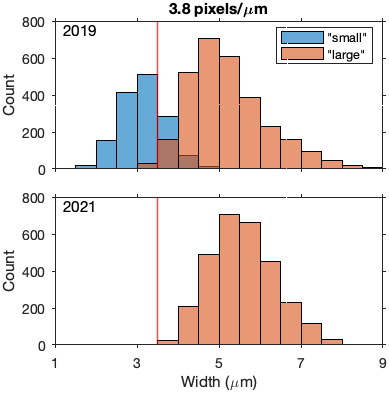
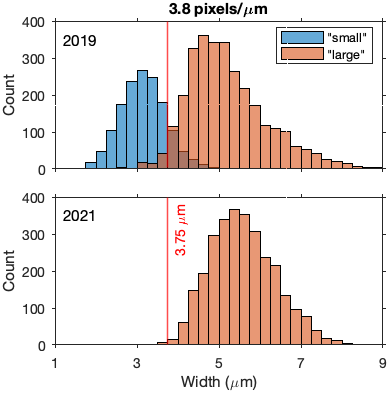
width 3.8

diff --git a/NOAA/Shimada/plot_PN_width_histogram_manual.m b/NOAA/Shimada/plot_PN_width_histogram_manual.m
@@ -2,16 +2,16 @@
 % complete dataset
 clear;
 
+micron_factor=3.8;
 filepath = '~/Documents/MATLAB/bloom-baby-bloom/';
 outpath = [filepath 'NOAA/Shimada/Figs/'];
 class_indices_path=[filepath 'IFCB-Tools/convert_index_class/class_indices.mat'];   
 addpath(genpath('~/Documents/MATLAB/ifcb-analysis/'));
 addpath(genpath(filepath));
 
-load([filepath 'IFCB-Data/Shimada/manual/summary_PN_width_manual'],...
+load([filepath 'IFCB-Data/Shimada/manual/summary_PN_width_manual_micron-factor' num2str(micron_factor) ''],...
     'ml_analyzed','mdate','filelist','PN*','micron_factor');
 
-micron_factor=3.8;
 dt=datetime(mdate,'ConvertFrom','datenum');
 
 [lat,lon,ia,filelist] = match_IFCBdata_w_Shimada_lat_lon(filepath,filelist);
@@ -36,24 +36,23 @@ subplot = @(m,n,p) subtightplot (m, n, p, [0.07 0.07], [0.12 0.07], [0.14 0.04])
 %where opt = {gap, width_h, width_w} describes the inner and outer spacings.  
 
 subplot(2,1,1);
-total=sum([length(PNwidth_small(i19).total)',length(PNwidth_large(i19).total)'])
-histogram([PNwidth_small(i19).total],1:.5:9); hold on
-histogram([PNwidth_large(i19).total],1:.5:9); hold on
-xline(3.5,'-r','linewidth',1); hold on
+histogram([PNwidth_small(i19).total],1:.25:9); hold on
+histogram([PNwidth_large(i19).total],1:.25:9); hold on
+xline(3.75,'-r','linewidth',1); hold on
 set(gca,'xlim',[1 9],'xtick',1:2:9,'xticklabel',{},'fontsize',10,'tickdir','out');
 ylabel('Count','fontsize',11)
 legend('"small"','"large"')
 title(['' num2str(micron_factor) ' pixels/\mum'],'fontsize',11)
-text(1.2,750,{'2019';'n=' num2str(length(,'fontsize',11,'color','k'); hold on
+text(1.2,350,'2019','fontsize',11,'color','k'); hold on
 
 subplot(2,1,2);
-histogram([PNwidth_small(i21).total],1:.5:9); hold on
-histogram([PNwidth_large(i21).total],1:.5:9); hold on
-xline(3.5,'-r','linewidth',1); hold on
+histogram([PNwidth_small(i21).total],1:.25:9); hold on
+histogram([PNwidth_large(i21).total],1:.25:9); hold on
+xline(3.75,'-r','3.75 \mum','linewidth',1); hold on
 set(gca,'xlim',[1 9],'xtick',1:2:9,'fontsize',10,'tickdir','out');
 ylabel('Count','fontsize',11)
 xlabel('Width (\mum)','fontsize',11)
-text(1.2,750,'2021','fontsize',11,'color','k'); hold on
+text(1.2,350,'2021','fontsize',11,'color','k'); hold on
   
 % set figure parameters
 exportgraphics(gcf,[outpath 'PN_width_histogram_manual_CCS_micron-factor' num2str(micron_factor) '.png'],'Resolution',100)    
